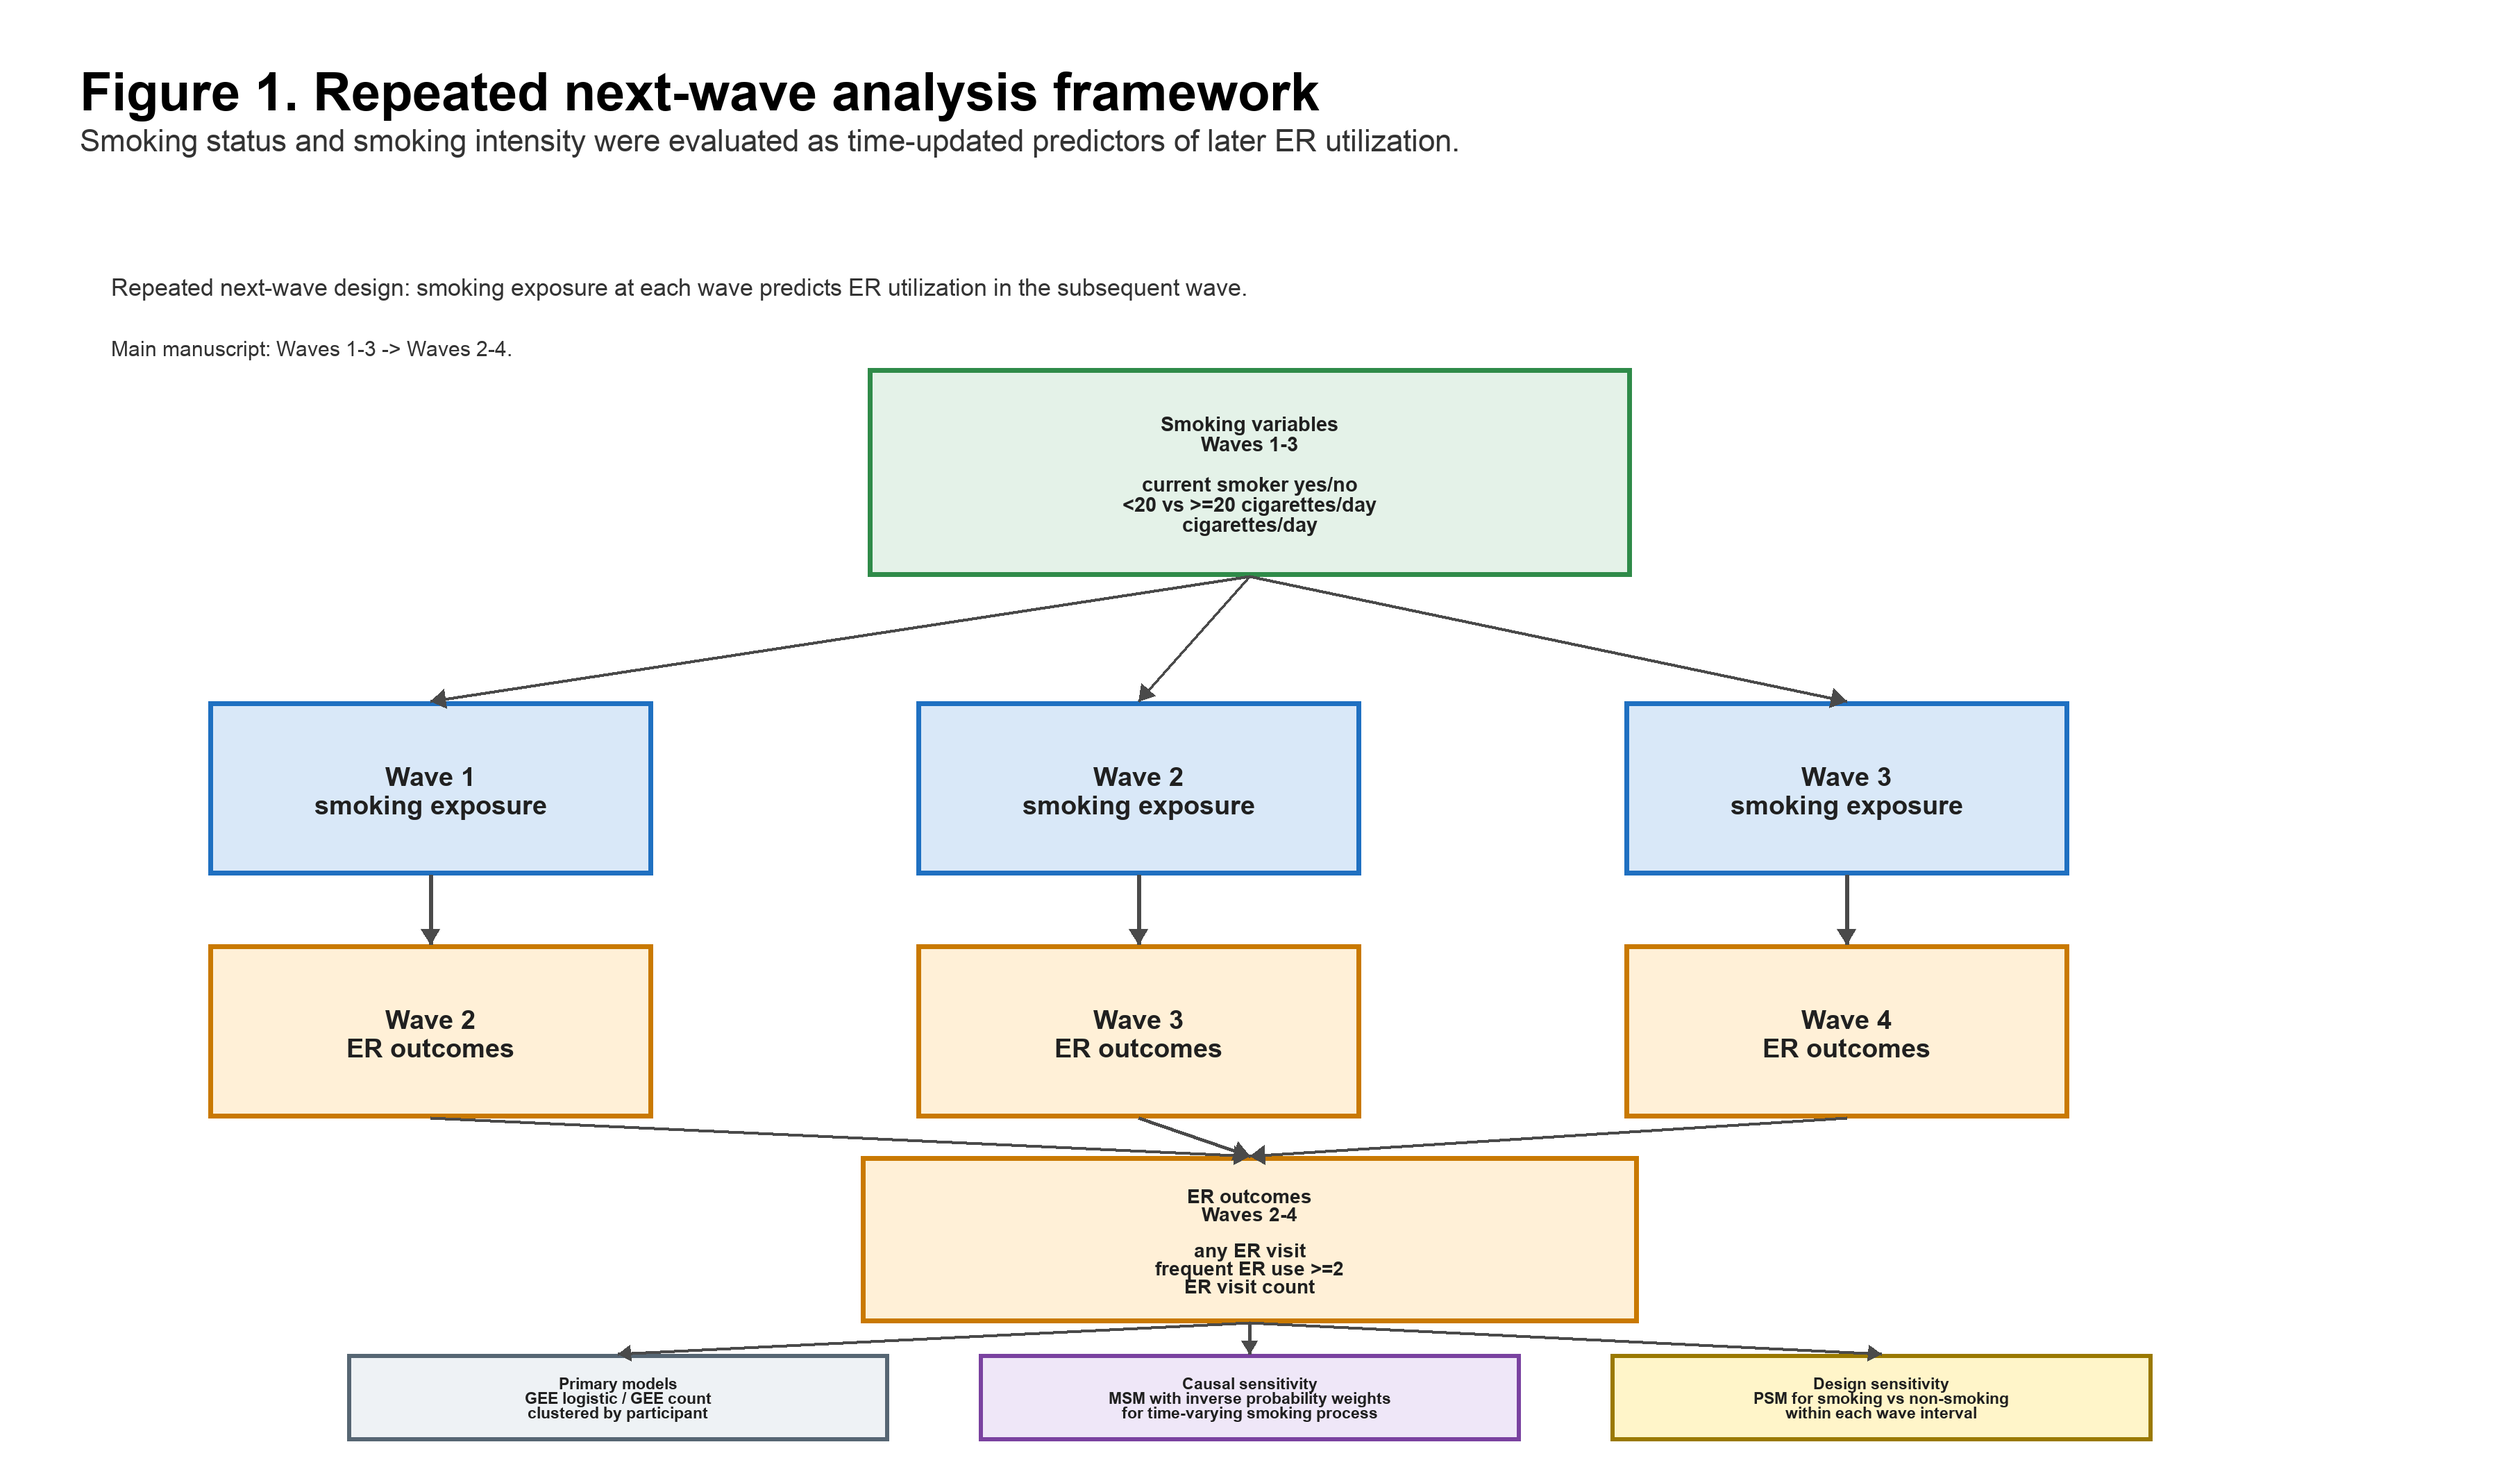
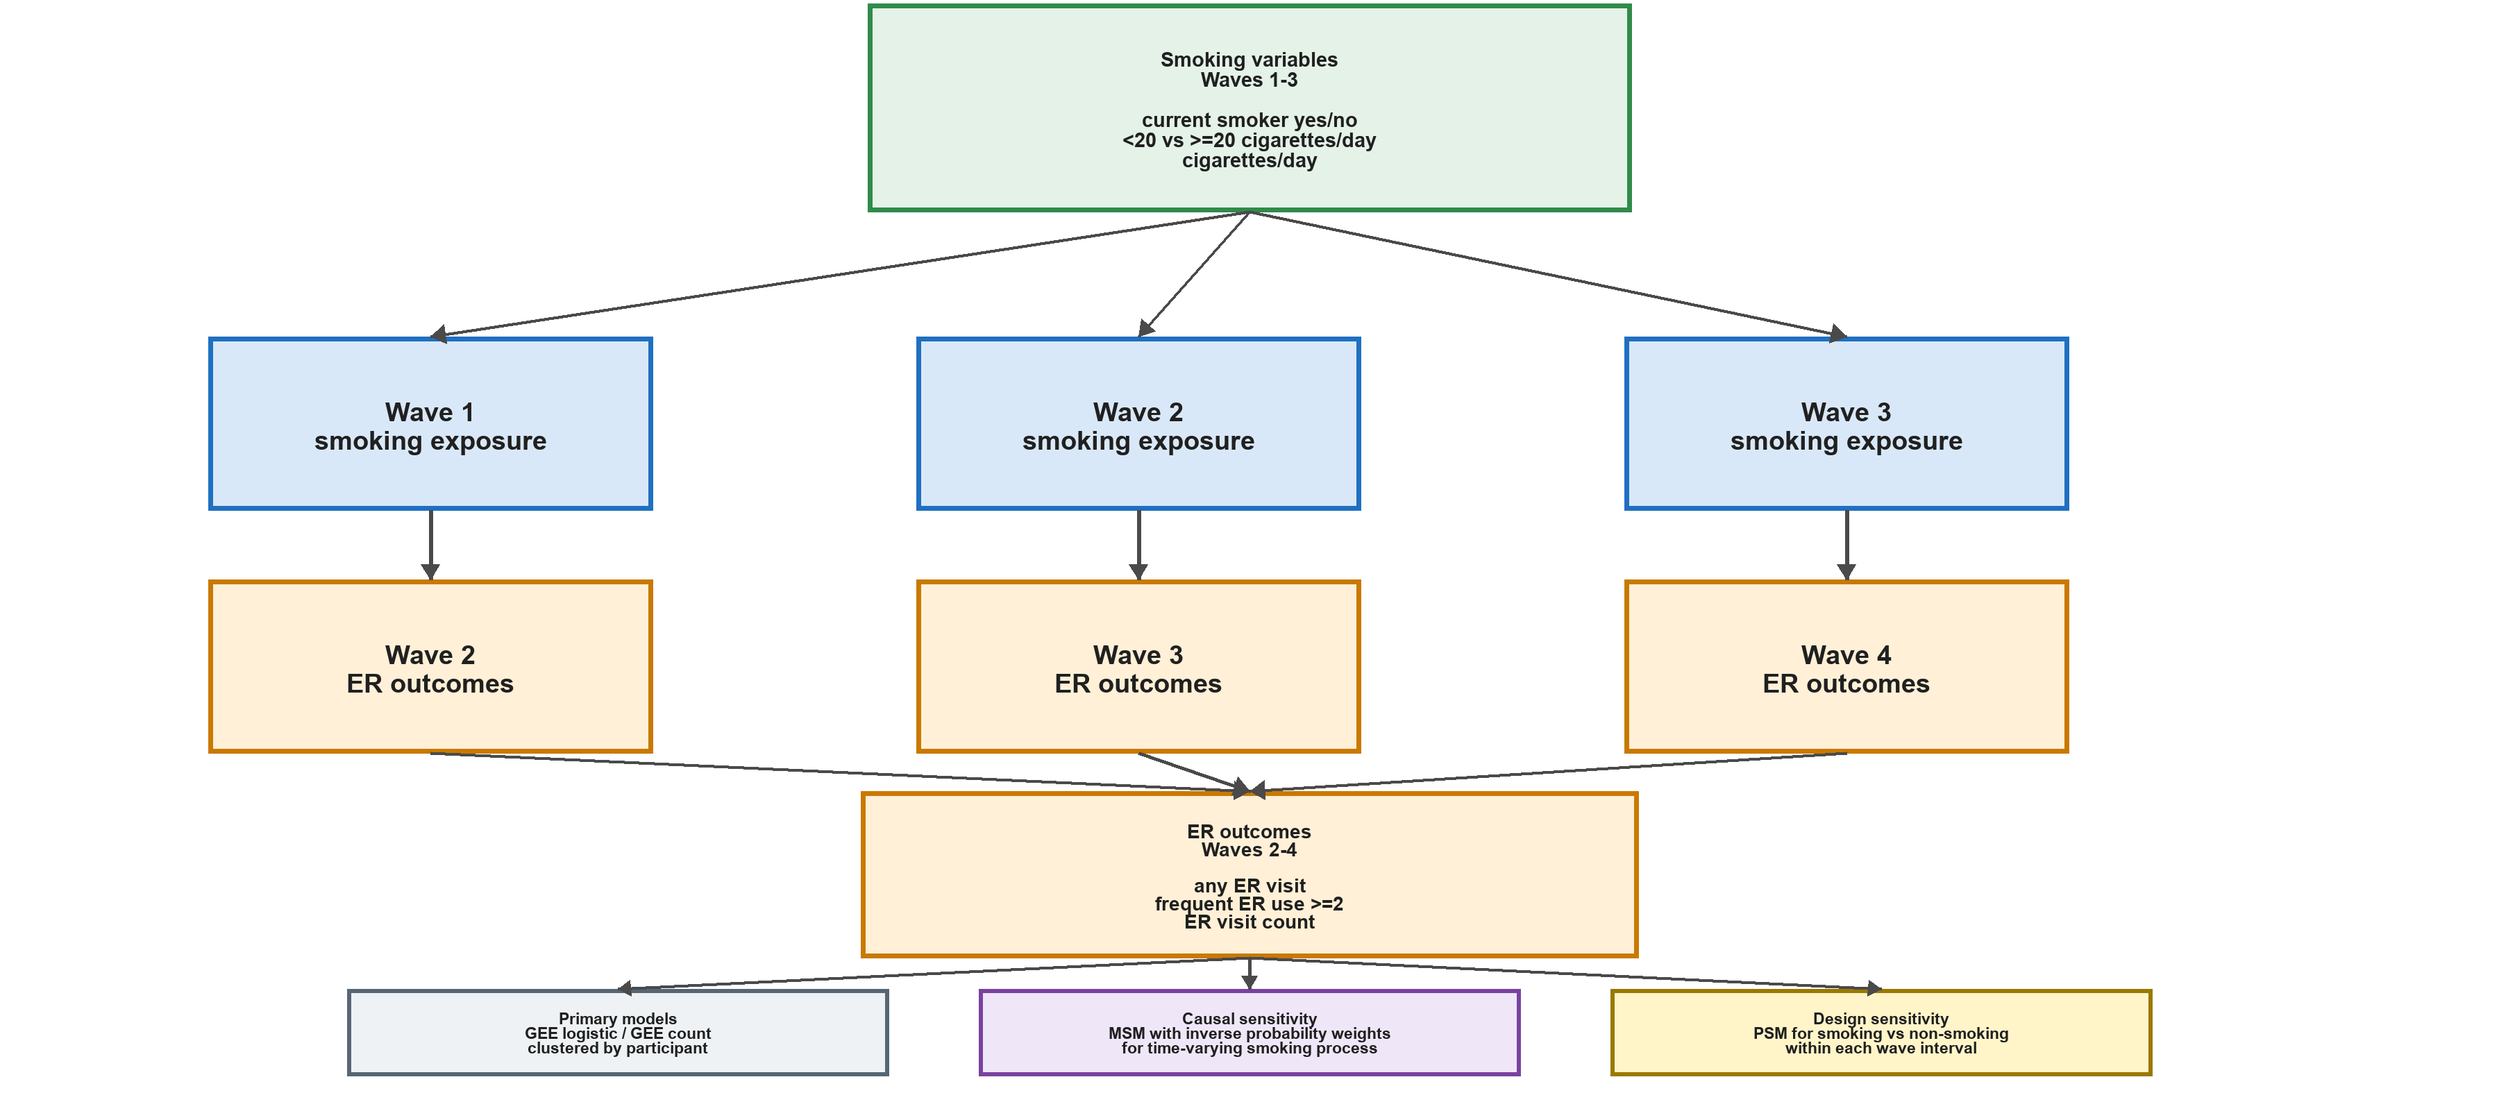
Refine smoking figures and bio

diff --git a/index.html b/index.html
@@ -48,8 +48,7 @@
 
       <section id="bio" class="section intro-section">
         <h2>Bio</h2>
-        <p>I am an oncology statistician at the University of Maryland Greenebaum Comprehensive Cancer Center. I develop statistical and machine learning methods for high-dimensional biomedical data and collaborate on translational and clinical oncology research.</p>
-        <p>My work spans robust variable selection, causal machine learning, multi-omics transfer learning, real-world evidence, and survival analysis. I am especially interested in methods that identify clinically meaningful subgroups and make complex health data more useful for treatment decisions.</p>
+        <p>I am an oncology statistician at the University of Maryland Greenebaum Comprehensive Cancer Center. I develop statistical and machine learning methods for high-dimensional biomedical data and collaborate on translational and clinical oncology research. My work spans robust variable selection, causal machine learning, multi-omics transfer learning, real-world evidence, and survival analysis.</p>
         <div class="research-tags" aria-label="Research interests">
           <span>High-dimensional inference</span>
           <span>Causal machine learning</span>
